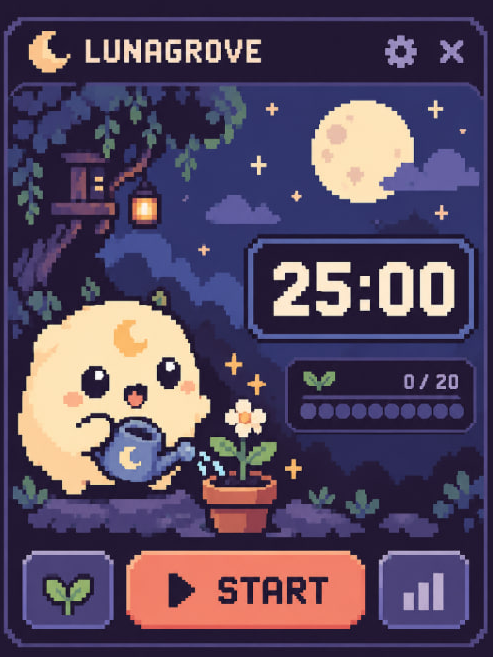
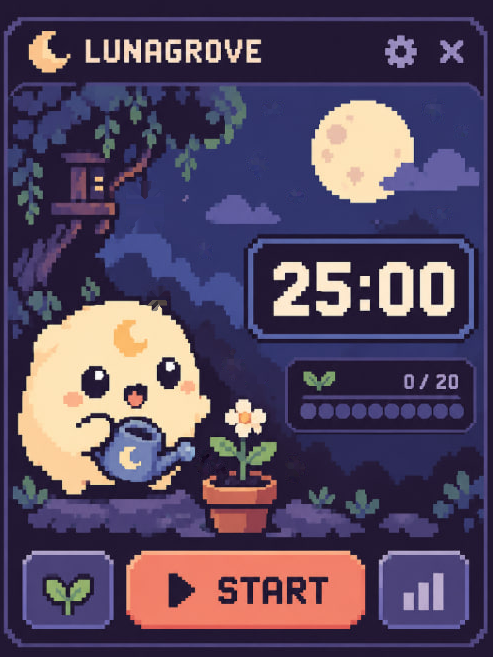
feat: animate the lunagrove home scene

diff --git a/src/pixel/pixel-ui.css b/src/pixel/pixel-ui.css
@@ -52,12 +52,202 @@
 .pixel-settings-button { top: 30px; left: 379px; width: 43px; height: 43px; }
 .pixel-close-button { top: 30px; left: 430px; width: 43px; height: 43px; }
 
-.pixel-lumi {
+/* Animated layers: pieces of lunagrove-sprites.png over the retouched base. */
+.pixel-ambient {
   position: absolute;
-  top: 285px;
-  left: 20px;
-  width: 220px;
-  height: 255px;
+  inset: 0;
+  pointer-events: none;
+}
+
+.pixel-sprite {
+  position: absolute;
+  display: block;
+  background: url("../assets/pixel/lunagrove-sprites.png") no-repeat;
+  background-size: 493px 657px;
+}
+
+.pixel-moon-glow {
+  position: absolute;
+  top: 61px;
+  left: 272px;
+  width: 180px;
+  height: 180px;
+  border-radius: 50%;
+  background: radial-gradient(circle, rgba(255, 236, 190, .2) 30%, rgba(255, 236, 190, 0) 70%);
+  animation: pixel-glow 6s ease-in-out infinite;
+}
+
+.pixel-star {
+  animation: pixel-twinkle 3s ease-in-out infinite;
+}
+
+.pixel-sparkle {
+  animation: pixel-sparkle 2s ease-in-out infinite;
+}
+
+.pixel-lantern {
+  transform-origin: 50% 0;
+  animation: pixel-swing 3.2s ease-in-out infinite alternate;
+}
+
+.pixel-lantern-glow {
+  position: absolute;
+  top: -12px;
+  left: -19px;
+  width: 72px;
+  height: 72px;
+  border-radius: 50%;
+  background: radial-gradient(circle, rgba(255, 190, 110, .45) 0, rgba(255, 170, 90, 0) 65%);
+  mix-blend-mode: screen;
+  animation: pixel-flicker 2.4s ease-in-out infinite;
+}
+
+.pixel-lumi {
+  transform-origin: 50% 100%;
+  animation: pixel-breathe 3.6s ease-in-out infinite;
+}
+
+/* Lumi only ever grows, so the copy baked into the base stays hidden. */
+.pixel-lumi[data-state="rest"] { animation-duration: 5s; }
+.pixel-lumi[data-state="celebrate"] { animation: pixel-hop .9s ease-in-out infinite; }
+
+.pixel-lumi-eyelid {
+  position: absolute;
+  opacity: 0;
+  background:
+    linear-gradient(#27192f, #27192f) 50% 58% / calc(100% - 4px) 5px no-repeat,
+    #fde6b9;
+  animation: pixel-blink 4.8s linear infinite;
+}
+
+.pixel-lumi-eyelid--left { top: 81px; left: 63px; width: 28px; height: 34px; }
+.pixel-lumi-eyelid--right { top: 73px; left: 138px; width: 24px; height: 33px; animation-delay: .03s; }
+.pixel-lumi[data-state="rest"] .pixel-lumi-eyelid { opacity: 1; animation: none; }
+
+.pixel-water {
+  position: absolute;
+  top: 452px;
+  left: 199px;
+  width: 30px;
+  height: 30px;
+}
+
+.pixel-water i {
+  position: absolute;
+  top: 0;
+  left: 0;
+  width: 4px;
+  height: 7px;
+  border-top: 3px solid #eefcff;
+  border-radius: 2px 2px 3px 3px;
+  background: #8fd3ea;
+  box-shadow: 0 0 3px rgba(159, 220, 239, .6);
+  animation: pixel-drip .8s cubic-bezier(.45, 0, .9, .6) infinite;
+}
+
+.pixel-water i:nth-child(1) { transform: translate(2px, 4px); }
+.pixel-water i:nth-child(2) { transform: translate(8px, 12px); animation-delay: -.27s; }
+.pixel-water i:nth-child(3) { transform: translate(13px, 20px); animation-delay: -.54s; }
+.pixel-water i:nth-child(4) { transform: translate(5px, 8px); animation-delay: -.4s; left: 3px; }
+
+.pixel-firefly {
+  position: absolute;
+  width: 3px;
+  height: 3px;
+  background: #eaf59c;
+  box-shadow: 0 0 5px 2px rgba(234, 245, 156, .55);
+  animation: pixel-drift-a 9s ease-in-out infinite, pixel-pulse 2.2s ease-in-out infinite;
+}
+
+.pixel-firefly--b { animation-name: pixel-drift-b, pixel-pulse; }
+.pixel-firefly--c { animation-name: pixel-drift-c, pixel-pulse; }
+
+@keyframes pixel-breathe {
+  0%, 100% { transform: scale(1, 1); }
+  50% { transform: scale(1.012, 1.024); }
+}
+
+@keyframes pixel-hop {
+  0%, 100% { transform: scale(1.05, 1); }
+  50% { transform: scale(1.01, 1.07); }
+}
+
+@keyframes pixel-blink {
+  0%, 93%, 97%, 100% { opacity: 0; }
+  94%, 96% { opacity: 1; }
+}
+
+@keyframes pixel-drip {
+  0% { opacity: 0; transform: translate(0, 0); }
+  15% { opacity: 1; }
+  80% { opacity: 1; }
+  100% { opacity: 0; transform: translate(16px, 25px); }
+}
+
+@keyframes pixel-twinkle {
+  0%, 100% { opacity: 1; transform: scale(1); }
+  50% { opacity: .3; transform: scale(.75); }
+}
+
+@keyframes pixel-sparkle {
+  0%, 100% { opacity: 1; transform: scale(1) rotate(0); }
+  50% { opacity: 0; transform: scale(.4) rotate(45deg); }
+}
+
+@keyframes pixel-swing {
+  from { transform: rotate(-4deg); }
+  to { transform: rotate(4deg); }
+}
+
+@keyframes pixel-flicker {
+  0%, 100% { opacity: .85; transform: scale(1); }
+  30% { opacity: .6; transform: scale(.94); }
+  55% { opacity: 1; transform: scale(1.05); }
+  80% { opacity: .7; }
+}
+
+@keyframes pixel-glow {
+  0%, 100% { opacity: .7; transform: scale(1); }
+  50% { opacity: 1; transform: scale(1.06); }
+}
+
+@keyframes pixel-pulse {
+  0%, 100% { opacity: .15; }
+  50% { opacity: 1; }
+}
+
+@keyframes pixel-drift-a {
+  0%, 100% { translate: 0 0; }
+  25% { translate: 18px -14px; }
+  50% { translate: 34px 4px; }
+  75% { translate: 12px 16px; }
+}
+
+@keyframes pixel-drift-b {
+  0%, 100% { translate: 0 0; }
+  25% { translate: -16px -10px; }
+  50% { translate: -28px 8px; }
+  75% { translate: -8px 14px; }
+}
+
+@keyframes pixel-drift-c {
+  0%, 100% { translate: 0 0; }
+  33% { translate: 14px 10px; }
+  66% { translate: -12px -12px; }
+}
+
+.pixel-shell--still *,
+.pixel-shell--still *::before,
+.pixel-shell--still *::after {
+  animation: none !important;
+}
+
+@media (prefers-reduced-motion: reduce) {
+  .pixel-shell *,
+  .pixel-shell *::before,
+  .pixel-shell *::after {
+    animation: none !important;
+  }
 }
 
 .pixel-timer-card {

diff --git a/src/pixel/HomeScene.tsx b/src/pixel/HomeScene.tsx
@@ -1,6 +1,7 @@
 import type { TimerState } from "../domain/types";
 import type { LumiState } from "./Lumi";
 import { PixelDigits } from "./PixelDigits";
+import { FIREFLIES, LANTERN, LUMI, SPARKLES, STARS, spriteStyle, type TwinkleSprite } from "./sceneLayers";
 import { pixelProgress } from "./progression";
 import "./pixel-ui.css";
 
@@ -62,11 +63,16 @@ function MainButton({ icon, label, onClick }: { icon: string; label: string; onC
   );
 }
 
+function twinkleStyle(sprite: TwinkleSprite) {
+  return { ...spriteStyle(sprite), animationDelay: `${-sprite.delay}s`, animationDuration: `${sprite.duration}s` };
+}
+
 export function HomeScene({
   timer,
   timeLeftMs,
   focusMinutes,
   stage,
+  reducedMotion,
   error,
   onStartFocus,
   onStartBreak,
@@ -80,19 +86,58 @@ export function HomeScene({
   const progress = pixelProgress(stage);
   const presentation = timerPresentation(timer, timeLeftMs, focusMinutes);
   const active = timer.status === "running" || timer.status === "paused";
+  const lumiState = lumiStateFor(timer);
 
   return (
-    <section className={`pixel-shell pixel-shell--${progress.chapter}`} aria-label="Lunagrove home">
+    <section
+      className={`pixel-shell pixel-shell--${progress.chapter}${reducedMotion ? " pixel-shell--still" : ""}`}
+      aria-label="Lunagrove home"
+    >
       <span className="pixel-brand">LUNAGROVE</span>
       <button className="pixel-hit pixel-settings-button" type="button" aria-label="Settings" onClick={onOpenSettings} />
       <button className="pixel-hit pixel-close-button" type="button" aria-label="Close Lunagrove" onClick={() => window.close()} />
 
+      <div className="pixel-ambient" aria-hidden="true">
+        <i className="pixel-moon-glow" />
+        {STARS.map((star) => (
+          <i className="pixel-sprite pixel-star" style={twinkleStyle(star)} key={`${star.x}-${star.y}`} />
+        ))}
+        <i className="pixel-sprite pixel-lantern" style={spriteStyle(LANTERN)}>
+          <i className="pixel-lantern-glow" />
+        </i>
+      </div>
+
       <div
-        className="pixel-lumi"
-        data-state={lumiStateFor(timer)}
+        className="pixel-sprite pixel-lumi"
+        style={spriteStyle(LUMI)}
+        data-state={lumiState}
         role="img"
-        aria-label={`Lumi, the moon gardener, ${lumiStateFor(timer)}`}
-      />
+        aria-label={`Lumi, the moon gardener, ${lumiState}`}
+      >
+        <i className="pixel-lumi-eyelid pixel-lumi-eyelid--left" aria-hidden="true" />
+        <i className="pixel-lumi-eyelid pixel-lumi-eyelid--right" aria-hidden="true" />
+      </div>
+
+      <div className="pixel-ambient" aria-hidden="true">
+        {lumiState === "water" && (
+          <span className="pixel-water" data-testid="watering">
+            <i />
+            <i />
+            <i />
+            <i />
+          </span>
+        )}
+        {SPARKLES.map((sparkle) => (
+          <i className="pixel-sprite pixel-sparkle" style={twinkleStyle(sparkle)} key={`${sparkle.x}-${sparkle.y}`} />
+        ))}
+        {FIREFLIES.map((firefly) => (
+          <i
+            className={`pixel-firefly pixel-firefly--${firefly.path}`}
+            style={{ left: firefly.x, top: firefly.y, animationDelay: `${-firefly.delay}s`, animationDuration: `${firefly.duration}s, 2.2s` }}
+            key={`${firefly.x}-${firefly.y}`}
+          />
+        ))}
+      </div>
 
       <section className="pixel-timer-card" aria-label="Pomodoro timer">
         <span className="pixel-mode">{presentation.label}</span>

diff --git a/src/pixel/sceneLayers.ts b/src/pixel/sceneLayers.ts
@@ -1,0 +1,59 @@
+// Boxes (prototype pixels) of the pieces cut into lunagrove-sprites.png.
+export interface SpriteBox {
+  x: number;
+  y: number;
+  width: number;
+  height: number;
+}
+
+export interface TwinkleSprite extends SpriteBox {
+  delay: number;
+  duration: number;
+}
+
+export const LUMI: SpriteBox = { x: 18, y: 284, width: 193, height: 211 };
+export const LANTERN: SpriteBox = { x: 128, y: 182, width: 34, height: 47 };
+
+export const STARS: TwinkleSprite[] = [
+  { x: 427, y: 100, width: 17, height: 19, delay: 0, duration: 3.4 },
+  { x: 265, y: 102, width: 14, height: 14, delay: 1.1, duration: 2.8 },
+  { x: 459, y: 128, width: 7, height: 7, delay: 0.4, duration: 2.2 },
+  { x: 250, y: 155, width: 17, height: 21, delay: 2.2, duration: 3.9 },
+  { x: 291, y: 190, width: 11, height: 12, delay: 0.7, duration: 2.6 },
+  { x: 434, y: 204, width: 15, height: 17, delay: 1.8, duration: 3.1 },
+  { x: 197, y: 245, width: 14, height: 11, delay: 2.9, duration: 2.4 },
+];
+
+export const SPARKLES: TwinkleSprite[] = [
+  { x: 224, y: 352, width: 19, height: 24, delay: 0.3, duration: 1.9 },
+  { x: 246, y: 373, width: 21, height: 23, delay: 1.2, duration: 2.3 },
+  { x: 284, y: 458, width: 19, height: 22, delay: 0.8, duration: 2.1 },
+];
+
+export interface Firefly {
+  x: number;
+  y: number;
+  path: "a" | "b" | "c";
+  delay: number;
+  duration: number;
+}
+
+// Kept away from the timer and journey cards on the right.
+export const FIREFLIES: Firefly[] = [
+  { x: 60, y: 250, path: "a", delay: 0, duration: 9 },
+  { x: 190, y: 200, path: "b", delay: 2.5, duration: 11 },
+  { x: 120, y: 505, path: "c", delay: 1.2, duration: 8 },
+  { x: 330, y: 495, path: "a", delay: 4, duration: 10 },
+  { x: 440, y: 470, path: "b", delay: 0.6, duration: 12 },
+  { x: 250, y: 120, path: "c", delay: 3.3, duration: 9.5 },
+];
+
+export function spriteStyle(box: SpriteBox) {
+  return {
+    left: box.x,
+    top: box.y,
+    width: box.width,
+    height: box.height,
+    backgroundPosition: `${-box.x}px ${-box.y}px`,
+  };
+}

diff --git a/src/pixel/HomeScene.test.tsx b/src/pixel/HomeScene.test.tsx
@@ -14,14 +14,14 @@ const actions = {
   onOpenSettings: vi.fn(),
 };
 
-function renderScene(timer: TimerState, stage = 7) {
+function renderScene(timer: TimerState, stage = 7, reducedMotion = false) {
   return render(
     <HomeScene
       timer={timer}
       timeLeftMs={25 * 60_000}
       focusMinutes={25}
       stage={stage}
-      reducedMotion={false}
+      reducedMotion={reducedMotion}
       {...actions}
     />,
   );
@@ -99,5 +99,20 @@ describe("HomeScene", () => {
       lumiState,
     );
     expect(screen.getByRole("button", { name: command })).toBeVisible();
+  });
+
+  it("waters the flower only while Lumi is watering", () => {
+    const { unmount } = renderScene({ status: "idle" });
+    expect(screen.getByTestId("watering")).toBeInTheDocument();
+    unmount();
+
+    renderScene({ status: "paused", sessionId: "focus", kind: "focus", startedAt: 0, remainingMs: 1, durationMs: 1 });
+    expect(screen.queryByTestId("watering")).not.toBeInTheDocument();
+  });
+
+  it("stills the scene when reduced motion is preferred", () => {
+    renderScene({ status: "idle" }, 7, true);
+
+    expect(screen.getByRole("region", { name: "Lunagrove home" })).toHaveClass("pixel-shell--still");
   });
 });
